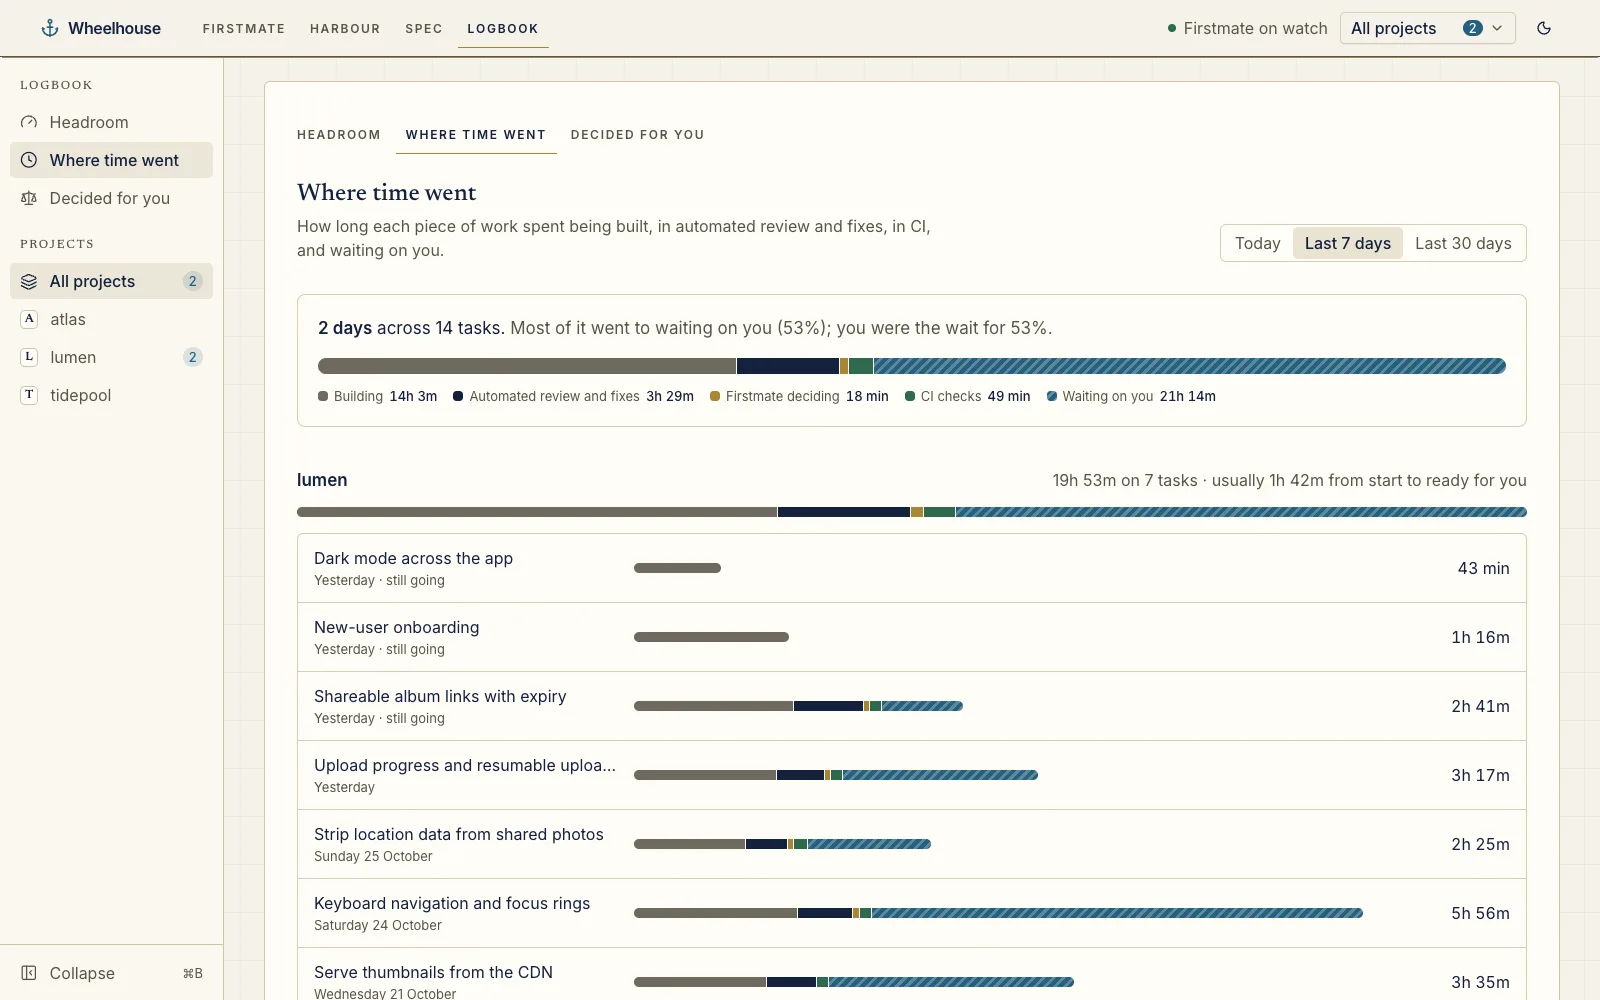
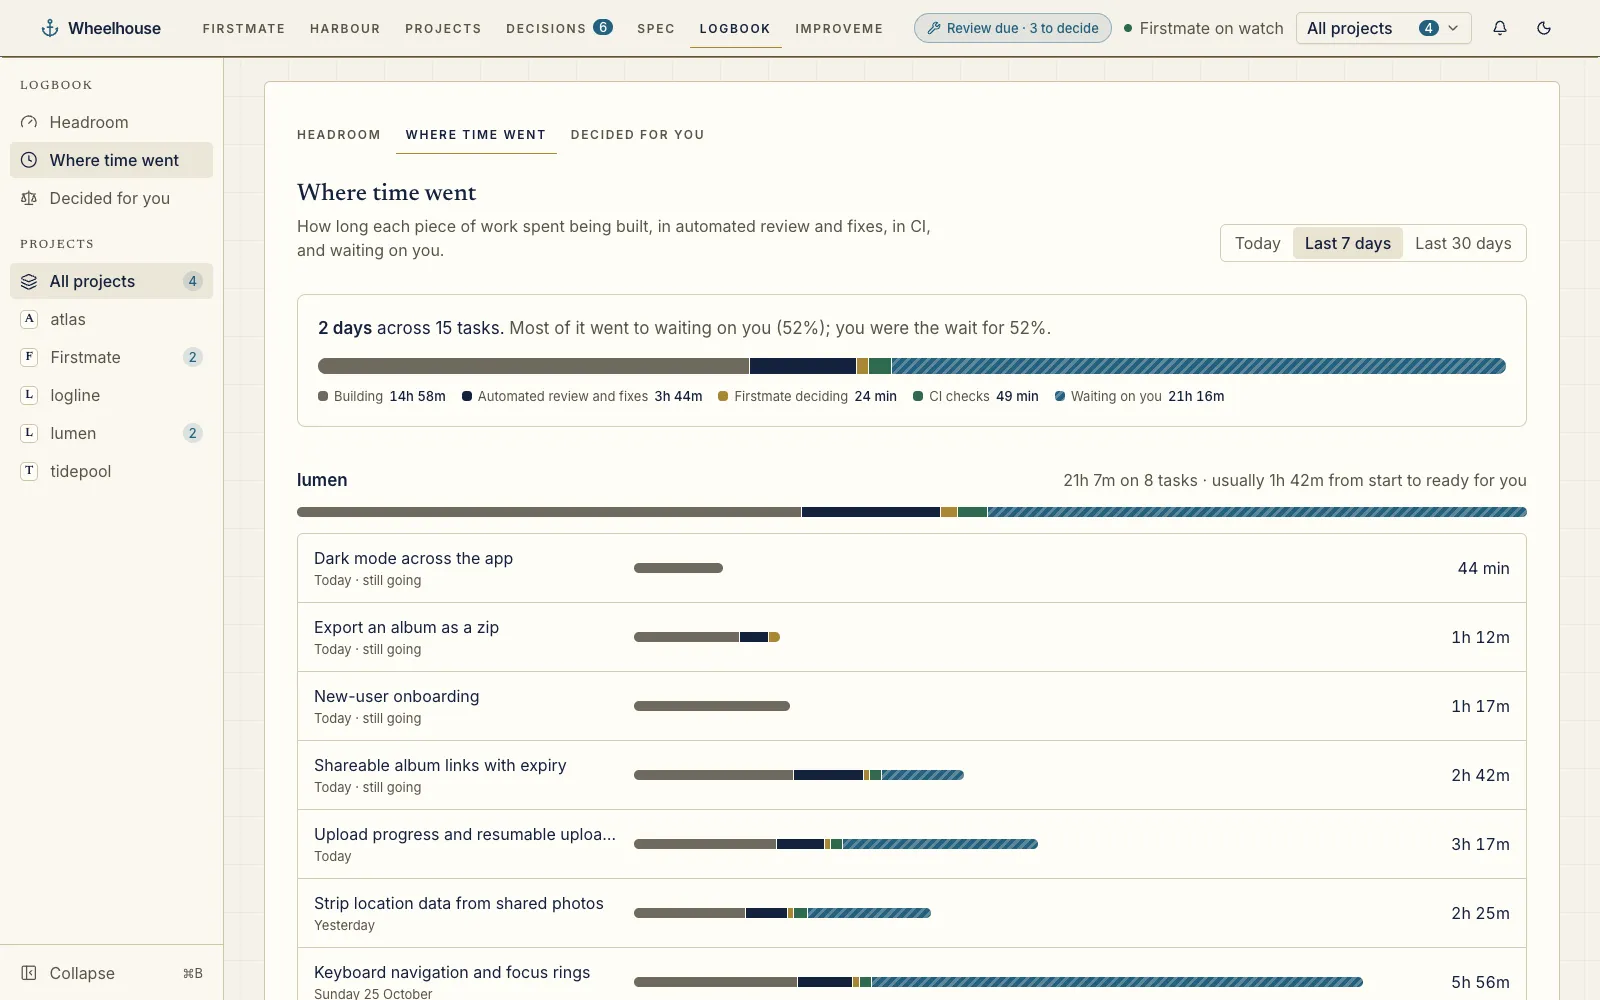
docs: refresh README screenshots and cover the newer pages
Retakes every screenshot from current main against a synthetic demo crew and adds
the fleet radar, ship's bell, Decisions inbox, PR review, Improvements and dark mode.

diff --git a/README.md b/README.md
@@ -6,7 +6,7 @@
 
 Wheelhouse is the bridge for [Firstmate](https://github.com/kunchenguid/firstmate). Talk to Firstmate, see at a glance what your crew is doing and what is waiting on you, and review real results (screenshots, live previews, green CI) from one calm page on your own machine.
 
-![Wheelhouse: the conversation with Firstmate on the left, with a question asked as buttons, and on the right, in tabs, what needs you, what is under way, what landed and the harness's health](docs/screenshots/home.webp)
+![Wheelhouse: projects in the side panel, the conversation with Firstmate in the middle with a question asked as buttons, and on the right the decisions waiting on you with one-tap answers](docs/screenshots/home.webp)
 
 <sub>Screenshots show a demo crew working on made-up projects.</sub>
 
@@ -16,7 +16,7 @@ Firstmate runs a whole crew of Claude Code workers for you. Keeping up with them
 
 ## Talk to Firstmate like a teammate
 
-Chat with Firstmate the way you would with a lead engineer. Its replies read as a conversation, its work folds into a single line you can open, and when it needs a call from you it asks with buttons. Mention any task with `#`, run Firstmate's commands with `/`, and see everything that needs you in the rail beside the chat.
+Chat with Firstmate the way you would with a lead engineer. Your messages and its replies read as a two-tone conversation, its work folds into a single line you can open, and when it needs a call from you it asks with buttons. Mention any task with `#`, run Firstmate's commands with `/`, and see everything that needs you in the rail beside the chat. A side panel keeps every project one click away, and collapses when you want the room.
 
 Rather talk than type? Click the microphone (or press Ctrl/⌘+Shift+Space, and hold it for push-to-talk) to dictate into the chat, the Spec tab or preview feedback. Your words appear in the box as you speak, ready to edit, and nothing is sent until you send it. Dictation uses your browser's built-in speech recognition, so it needs no setup; in Chrome and Edge that means your voice is sent to the browser maker's speech service (Google, in Chrome) while the microphone is on, and Wheelhouse says so before you first use it.
 
@@ -24,9 +24,19 @@ Rather talk than type? Click the microphone (or press Ctrl/⌘+Shift+Space, and 
 
 ![Harbour: work waiting on you first, with screenshots, a live preview link and the pull request, then work under way](docs/screenshots/harbour.webp)
 
-**Harbour** puts what needs you first: pull requests ready for review, with their screenshots, live preview and checks, and decisions only you can make. Below that, every piece of work says who is on it and what they are doing right now in plain words, with a live view of the worker's console and an honest estimate of the time left. Switch to **Radar** to watch the whole fleet flow from Queued to Landed as it happens: one dot per task, pulsing while its worker is busy, amber when it is waiting on you and red when it is stuck.
+**Harbour** puts what needs you first, as large cards, a compact grid or a plain list: pull requests ready for review, with their screenshots, live preview and checks, and decisions only you can make. Below that, every piece of work says who is on it and what they are doing right now in plain words, with a live view of the worker's console and an honest estimate of the time left. Switch to **Radar** to watch the whole fleet flow from Queued to Landed as it happens: one dot per task, pulsing while its worker is busy, amber when it is waiting on you and red when it is stuck. **Projects** gives every project its own card: what needs you, what is moving, and links to its passage and repository.
+
+![Fleet radar: every task as a dot moving from Queued through Building, Testing and Pull request to Landed](docs/screenshots/radar.webp)
+
+## Hear the bell when it matters
+
+![The ship's bell: a question waiting and a pull request gone green, each with a one-click answer](docs/screenshots/bell.webp)
+
+The **ship's bell** rings for the moments worth looking up for: a pull request gone green, a question waiting on you, a worker that is stuck, a merge that landed. Each one arrives as a small card with the next step right on it (merge, open the decision, answer in chat), and can sound a bell or show a desktop notification when Wheelhouse is in the background. Mute any kind you don't care about.
 
 ## Clear every open question in one place
+
+![Decisions: every open question as a card, with Approve, Fix, Skip and Ask me later, and keyboard shortcuts](docs/screenshots/inbox.webp)
 
 **Decisions** gathers everything waiting on a call into one stack: the automated review's questions, decisions the crew raised, work held for you, live previews waiting for your sign-off and pull requests waiting for the word to merge. Each card shows the evidence (findings, the pull request, the preview, screenshots) and Firstmate's recommendation when it recorded one, with **Approve**, **Fix** (**Request changes** on a preview), **Skip** and **Ask me later**; a preview opens in the task's **Live preview** tab or at its own address. Your answer goes to Firstmate as a message, so it reaches the worker the way Firstmate relays it; the card reads "sent to Firstmate" until the question closes, or says why if Firstmate did not take it so you can answer again. Press `j`/`k` to move, `a`/`f`/`s` to answer, `l` to ask later and Enter for the evidence; on a phone the cards stack with full-size buttons. The next few also sit at the top of the home page's rail.
 
@@ -50,6 +60,8 @@ Add your own steps to a project's passage, such as a local Kubernetes deploy onc
 
 ## Review the pull request with a guide
 
+![Pull request review: the review guide's summary, the changes to read first with why each was made, and a box to ask the review agent](docs/screenshots/review.webp)
+
 Open a task's pull request in Wheelhouse and, when you ask, a read-only review agent (your own `claude`, with no tools) reads it with the task's records and puts the important changes first: behaviour changes, risky areas and public APIs, each with why it was done that way, taken from the brief, the commits, the review's findings and Firstmate's calls. When nothing records a reason, it says so. Lockfiles, generated files and formatting fold away. Ask about the whole PR or any hunk, or request a focused review, and the answer streams in where you asked; a change you want goes to Firstmate. Each run shows what it cost, and a guide is kept per PR version, so reopening it is free.
 
 ## Review the real thing, not just the diff
@@ -60,7 +72,7 @@ When a worker has the app running, Wheelhouse embeds it right in the task. Click
 
 ## Write the spec before the work starts
 
-![The Spec tab: the interviewer's questions and suggested answers on the left, the spec filling in on the right with a resolved comment](docs/screenshots/spec.webp)
+![The Spec tab: the interviewer's questions and suggested answers on the left, the spec filling in on the right with what just changed marked](docs/screenshots/spec.webp)
 
 On the **Spec** tab, say what you want built and an interviewer grills you on it, one question at a time, in the style of the `grill-me` skill: it pushes back on vague answers, offers a few answers to pick from with the one it recommends, and knows when to stop. The spec fills in beside the conversation as you answer (the problem and goal, who it is for, their journeys, what is in and out, the requirements as a checklist, the risks and what is still open), with what your last answer changed marked. Select any words in it, or use a section's comment button, to leave a comment; the interviewer works each one in and marks it resolved. Answers can be typed or dictated, and specs save as you go, so you can come back to one later. When it reads right, **Send to build** sends it to Firstmate as one build request for the project you chose.
 
@@ -79,6 +91,18 @@ Firstmate answers routine review questions for you so the work never stalls wait
 **Where time went** shows how long each task spent being built, in review and fixes, in CI and waiting on you, so you can see whether the crew or the queue is the bottleneck. **Headroom** shows how much of your Claude allowance is left, when it resets and who on your machine is using it, and warns you before the crew runs dry. All three live under the **Logbook** tab.
 
 ![Headroom: Claude allowance left this session and this week, and each task's share of recent use](docs/screenshots/headroom.webp)
+
+## Let the harness get better on its own
+
+![Improvements: a harness review is due, proposals waiting for your call, the patterns improve spotted and the size of the harness](docs/screenshots/improvements.webp)
+
+If you use the improve plugin, the **Improvements** page shows what it has learned from your crew: the questions that keep coming up, the changes it proposes to Firstmate's instructions, and when a review is due. Nothing changes until you approve it.
+
+## Easy on the eyes, day or night
+
+![Wheelhouse in dark mode: the same home page on deep navy](docs/screenshots/home-dark.webp)
+
+Wheelhouse keeps a calm, logbook look in the light and a deep navy shade after dark. Flip between them with one click, or let it follow your system.
 
 ## Yours, and only yours
 
